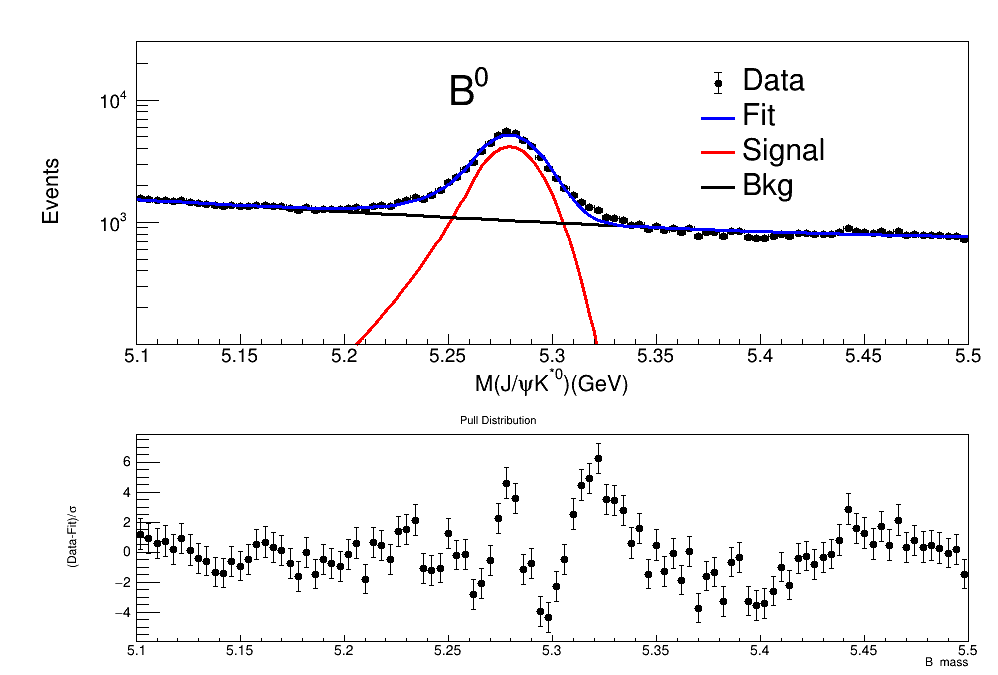
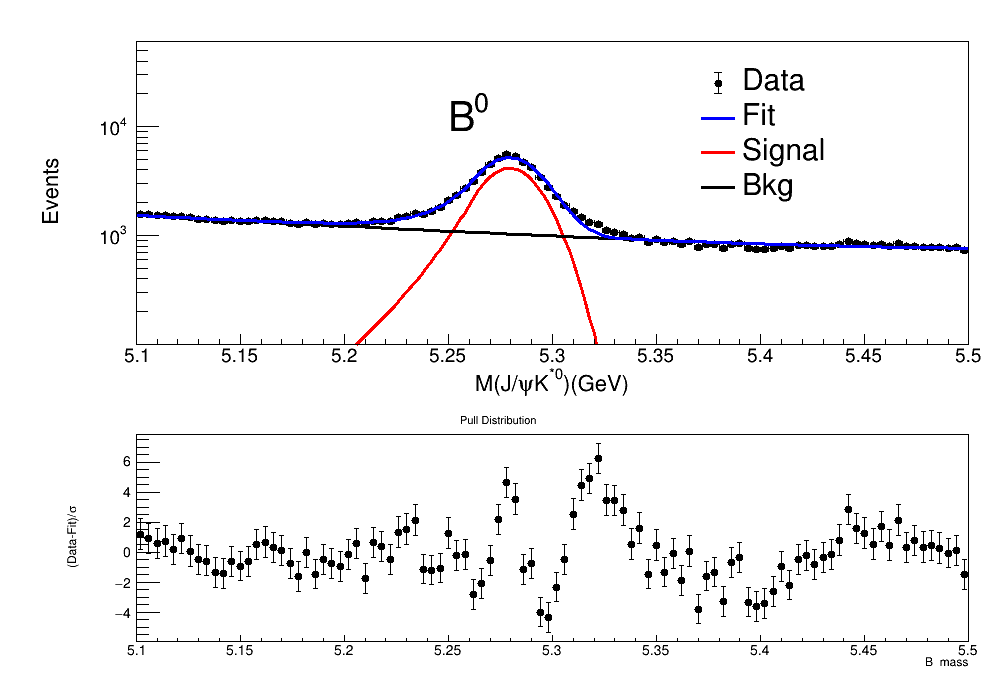
update

diff --git a/Codes/Josue/analisis.C b/Codes/Josue/analisis.C
@@ -112,8 +112,13 @@ void analisis(){
     t->GetEvent(i);
     //Mass windows cuts
     if(massB<5.1 || massB>5.5) continue;
-    if(massJ<2.9 || massJ>3.3) continue;
+    if(massJ<=3.0969-0.150 || massJ>=3.0969+0.150) continue;
     if(Bpt<20.0 || Bpt>23.0) continue;
+    if(mu1pt<4.0) continue;
+    if(mu2pt<4.0) continue;
+    if( abs(mu1eta)>2.4)continue;
+    if( abs(mu2eta)>2.4)continue;
+    if( abs(Brapidity)>2.4) continue;
 
     Bm = massB;
     massDS->add(RooArgSet(Bm));
@@ -126,7 +131,7 @@ void analisis(){
   RooRealVar sigma("sigma", "sigma", .02, 0.0, 0.04);
   RooRealVar alpha("alpha", "alpha", 1, 0.0, 5);
   RooRealVar n("n", "n", 3, 0, 5);
-  //RooGaussian sig("sig", "sig", Bm, mean, sigma);
+
   RooCBShape sig("sig", "sig", Bm, mean, sigma, alpha, n);
   //Bkg
   RooRealVar a0("a0", "a0", -1,1);
@@ -138,10 +143,51 @@ void analisis(){
   RooRealVar nbkg("nbkg","nbkg",2000,0.,148085);
 
   RooAddPdf model("model","sig+bkg", RooArgList(sig,bkg), RooArgList(nsig,nbkg));
-  RooFitResult* result = model.fitTo(*massDS, Extended(kTRUE), Save(kTRUE));
+  RooFitResult* result = model.fitTo(*massDS, Extended(kTRUE), Save(kTRUE), NumCPU(4));
 
 
+  //Canvas 1
+  TCanvas *c1 = new TCanvas("c1", "c1", 700, 500);
+  c1->cd();
+
+  gPad->SetLogy();
+  RooPlot* frame = Bm.frame(5.1, 5.5, 70);
+  frame->SetTitle("");
+  frame->SetXTitle("M(J/#psiK^{*0})(GeV)"); frame->GetXaxis()->CenterTitle();
+  frame->SetYTitle("Events"); frame->GetYaxis()->CenterTitle();
+  frame->SetTitleSize(0.06, "XY"); 
+  frame->SetLabelSize(0.05,"XY");
+
+  massDS->plotOn(frame, Name("data"), MarkerSize(1.0),XErrorSize(0));
+  model.plotOn(frame, Components(sig), LineColor(kRed), LineWidth(1), Name("signal"));
+  model.plotOn(frame, Components(bkg), LineColor(kBlack), LineWidth(1), Name("bkg"));
+  model.plotOn(frame, LineColor(kBlue), LineWidth(1), Name("model"));
+
+  TLegend *legMass = new TLegend(0.7,0.85,0.9,0.5);
+  legMass->SetTextSize(0.08);
+  legMass->SetFillColor(0);
+  legMass->SetBorderSize(0);
+  legMass->SetFillStyle(0);
+  legMass->AddEntry(frame->findObject("data"), "Data", "pe");
+  legMass->AddEntry(frame->findObject("model"), "Fit", "l");
+  legMass->AddEntry(frame->findObject("signal"),"Signal","l");
+  legMass->AddEntry(frame->findObject("bkg"),"Bkg","l");
+  frame->SetMinimum(1E2);
+  frame->SetMaximum(6E4);
+  frame->Draw();
+  legMass->Draw();
+
+  auto mtext = new TLatex();
+  mtext->SetTextSize(0.11);
+  mtext->SetTextFont(42);
+  mtext->DrawLatex(5.25, 9000, "B^{0}");
+
+  c1->Draw();
+  c1->SaveAs("massFit.png");
+
+  //Canvas 2
   TCanvas *c = new TCanvas("c", "c", 1000, 700);
+  c->cd();
 
   TPad *pad1 = new TPad("p1", "", 0.01,0.4,0.9903769, 0.99);
   pad1->SetLeftMargin(0.13);   
@@ -159,19 +205,17 @@ void analisis(){
 
   pad1->cd();
   gPad->SetLogy();
-  RooPlot* frame = Bm.frame(5.1, 5.5, 100);
   frame->SetTitle("");
   frame->SetXTitle("M(J/#psiK^{*0})(GeV)"); frame->GetXaxis()->CenterTitle();
   frame->SetYTitle("Events"); frame->GetYaxis()->CenterTitle();
   frame->SetTitleSize(0.06, "XY"); 
   frame->SetLabelSize(0.05,"XY");
 
-  massDS->plotOn(frame, Name("data"));
-  model.plotOn(frame, Components(sig), LineColor(kRed), Name("signal"));
-  model.plotOn(frame, Components(bkg), LineColor(kBlack), Name("bkg"));
-  model.plotOn(frame, LineColor(kBlue), Name("model"));
+  massDS->plotOn(frame, Name("data"), MarkerSize(1.0),XErrorSize(0));
+  model.plotOn(frame, Components(sig), LineColor(kRed), LineWidth(1), Name("signal"));
+  model.plotOn(frame, Components(bkg), LineColor(kBlack), LineWidth(1), Name("bkg"));
+  model.plotOn(frame, LineColor(kBlue), LineWidth(1), Name("model"));
 
-  TLegend *legMass = new TLegend(0.7,0.85,0.9,0.5);
   legMass->SetTextSize(0.08);
   legMass->SetFillColor(0);
   legMass->SetBorderSize(0);
@@ -181,11 +225,10 @@ void analisis(){
   legMass->AddEntry(frame->findObject("signal"),"Signal","l");
   legMass->AddEntry(frame->findObject("bkg"),"Bkg","l");
   frame->SetMinimum(1E2);
-  frame->SetMaximum(3E4);
+  frame->SetMaximum(6E4);
   frame->Draw();
   legMass->Draw();
 
-  auto mtext = new TLatex();
   mtext->SetTextSize(0.11);
   mtext->SetTextFont(42);
   mtext->DrawLatex(5.25, 9000, "B^{0}");
@@ -201,10 +244,10 @@ void analisis(){
   frame2->Draw();
 
   c->Draw();
-  c->SaveAs("massFit.png");
+  c->SaveAs("massFitPull.png");
 
   ofstream salida("fitData.txt");
-  salida << a0.getVal() << a0.getError() << " " << a1.getVal() << 
+  salida << a0.getVal() << " " << a0.getError() << " " << a1.getVal() << 
   " " << a1.getError() << " " << mean.getVal() << " " << mean.getError() <<
   " " << sigma.getVal() << " " << sigma.getError() << " " << alpha.getVal() << 
   " " << alpha.getError() << " " << n.getVal() << " " << n.getError() << 

diff --git a/Codes/Josue/montecarlo.C b/Codes/Josue/montecarlo.C
@@ -35,8 +35,8 @@ void montecarlo(){
     RooChebychev bkg("bkg", "bkg", m, RooArgList(a0, a1));
 
     //Num eventos
-    RooRealVar nsig("nsig","nsig",100000,105000);
-    RooRealVar nbkg("nbkg","nbkg",4000,45000);
+    RooRealVar nsig("nsig","nsig",0,110000);
+    RooRealVar nbkg("nbkg","nbkg",0,50000);
     
     //Pdf total
     RooAddPdf model("model","sig+bkg", RooArgList(sig,bkg), RooArgList(nsig,nbkg));
@@ -51,7 +51,7 @@ void montecarlo(){
     RooDataSet nbkgDset("nbkgPULL", "nbkgPULL", RooArgSet(nbkgPull));
 
     RooRandom::randomGenerator()->SetSeed(84329746);
-    for(int i=0; i<100; i++){
+    for(int i=0; i<30; i++){
 
       mean.setVal(meanf); mean.setError(meanfErr);
       sigma.setVal(sigmaf); sigma.setError(sigmafErr);
